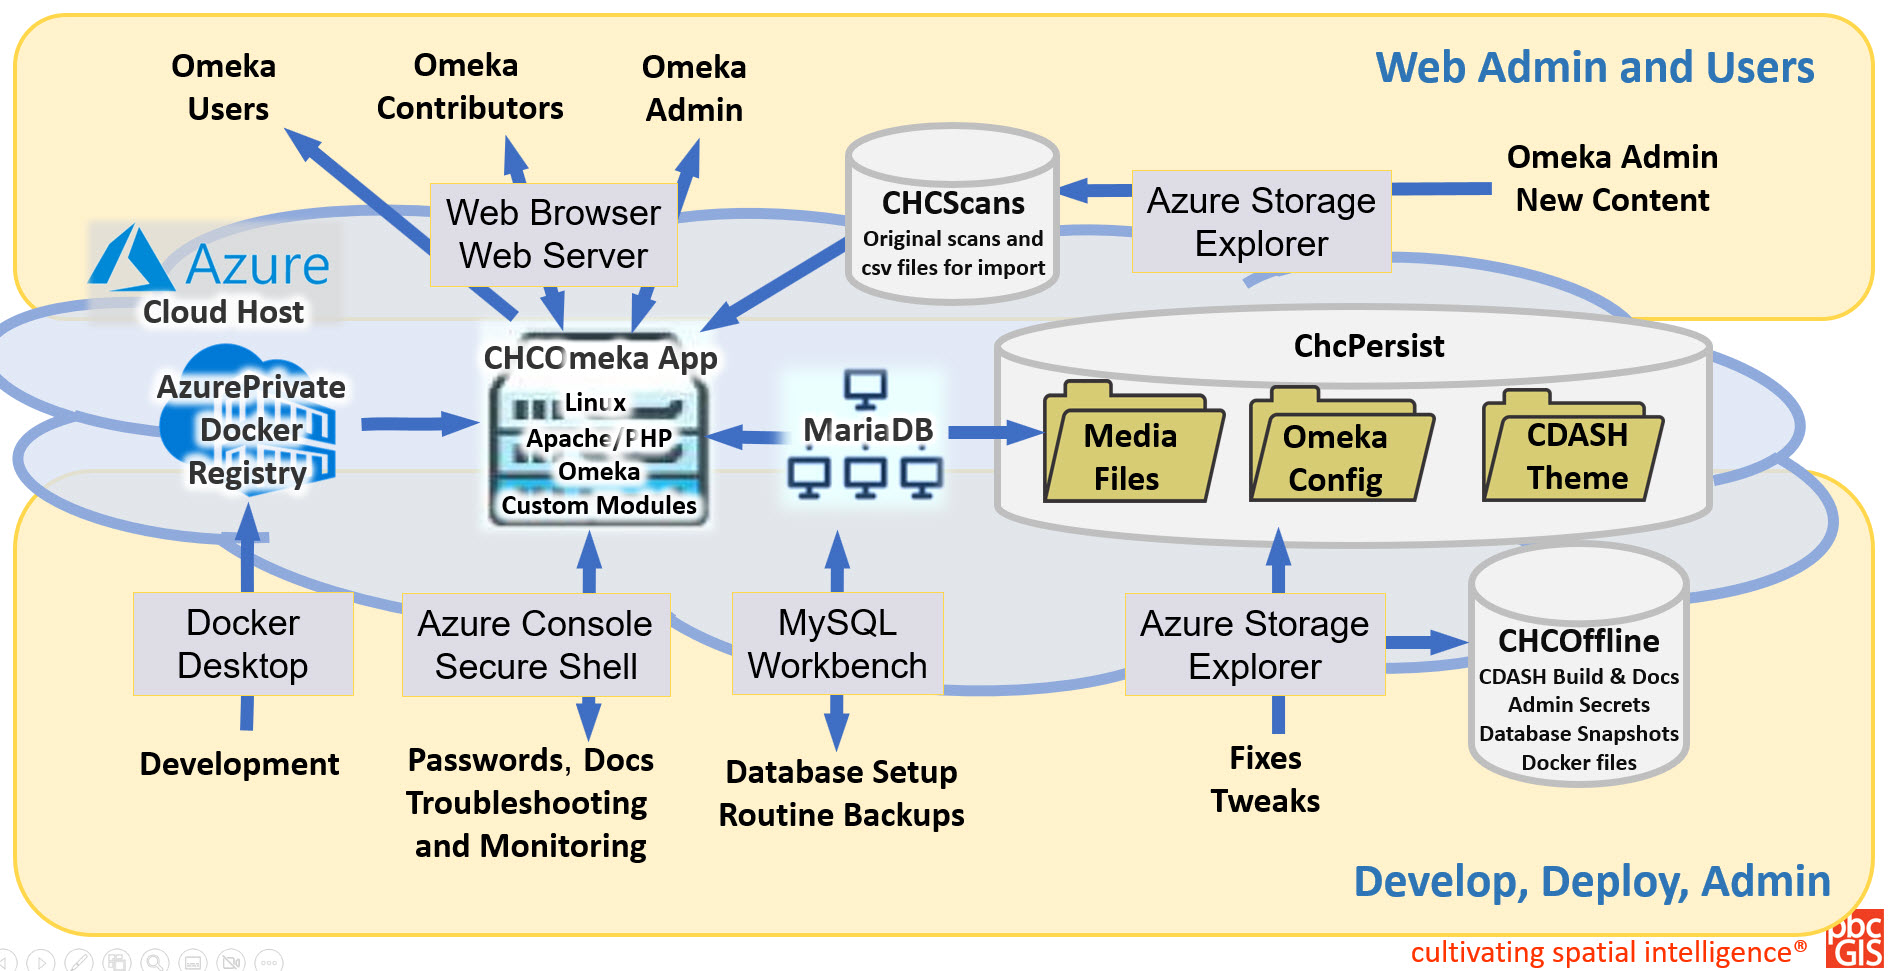
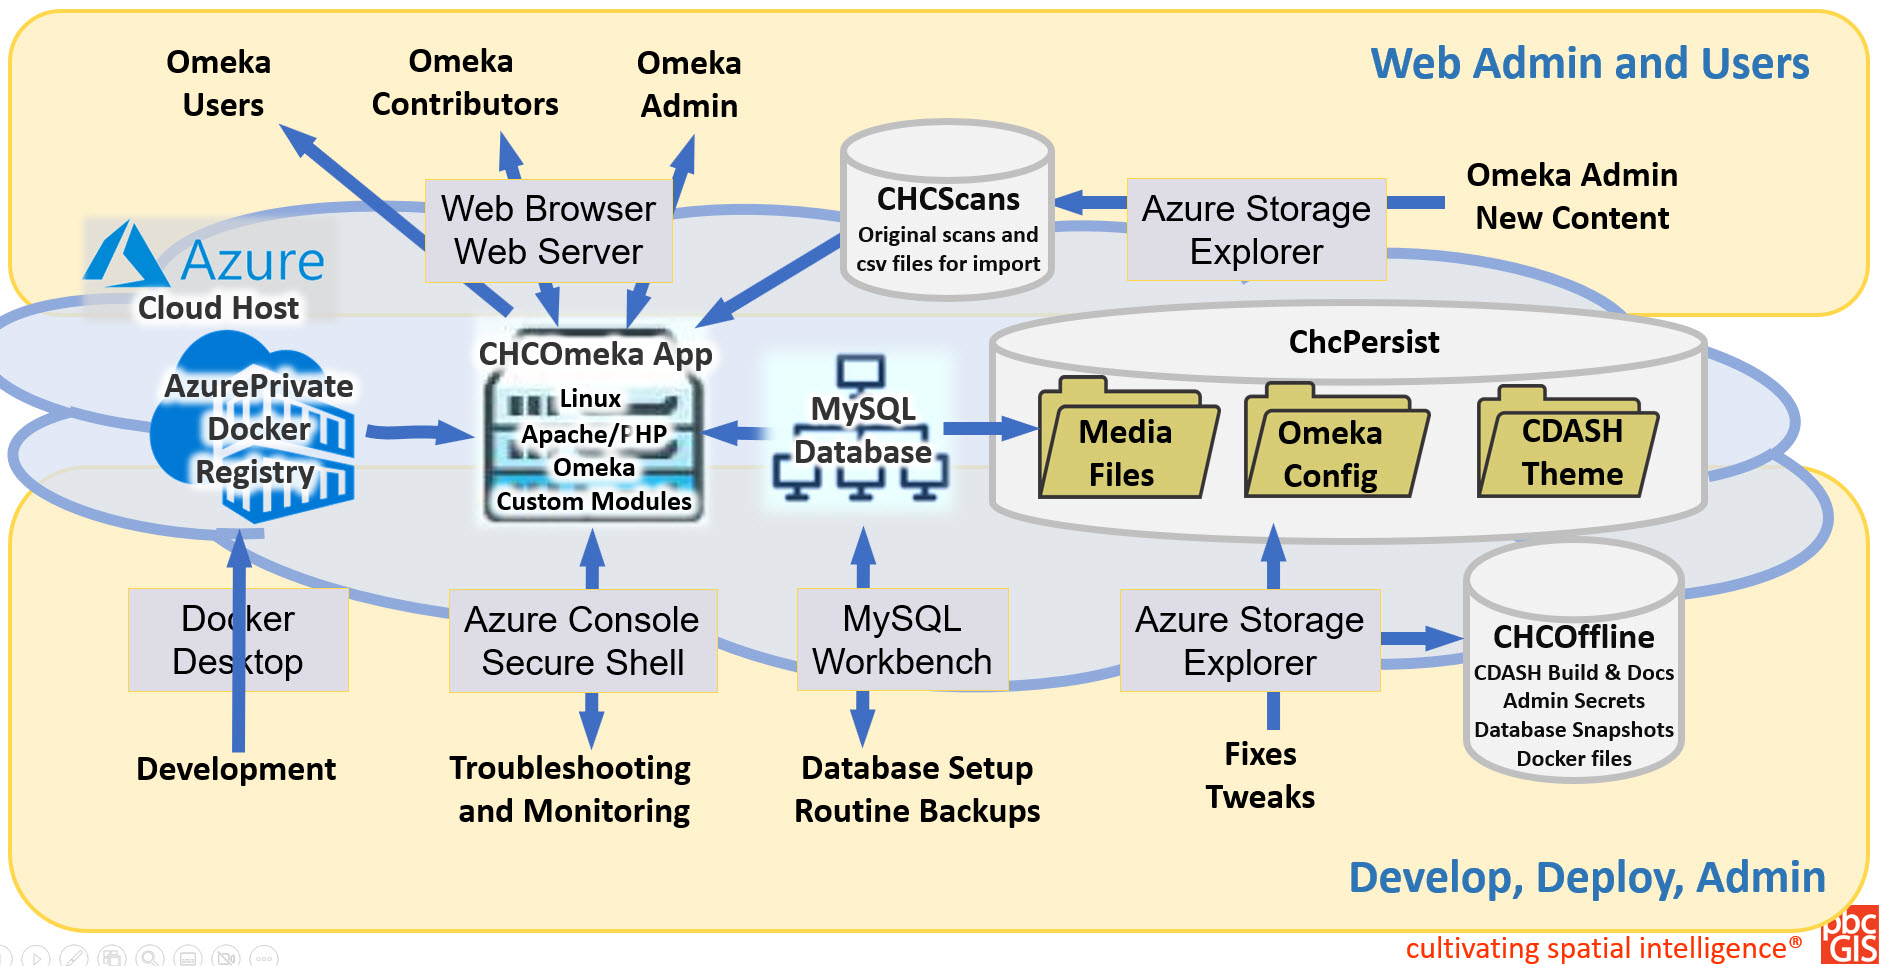
modified:   assets/images/omeka_in_azure.jpg 	modified:   assets/index.htm 	modified:   docker/images/omeka_in_azure.jpg

diff --git a/assets/index.htm b/assets/index.htm
@@ -74,7 +74,7 @@
   <li>Operating System (linux) 
   <li>Web Server(Apache)
   <li>Web Development Framework (PHP)
-  <li>Database Server (MariaDB)
+  <li>Database Server (MySQL)
   <li>Asset / Content Management Application (Omeka-S with additional Modules)
   <li>CDASH Customizations
   </ul>
@@ -87,7 +87,7 @@
 
   <figure class="middle"> 
   <img src="images/omeka_in_azure.jpg">
-    <figcaption>Fig Middle Caption</figcaption>
+    <figcaption>Architecture of the CHC Omeka Resource Group in Azure</figcaption>
     </figure>
 
 
